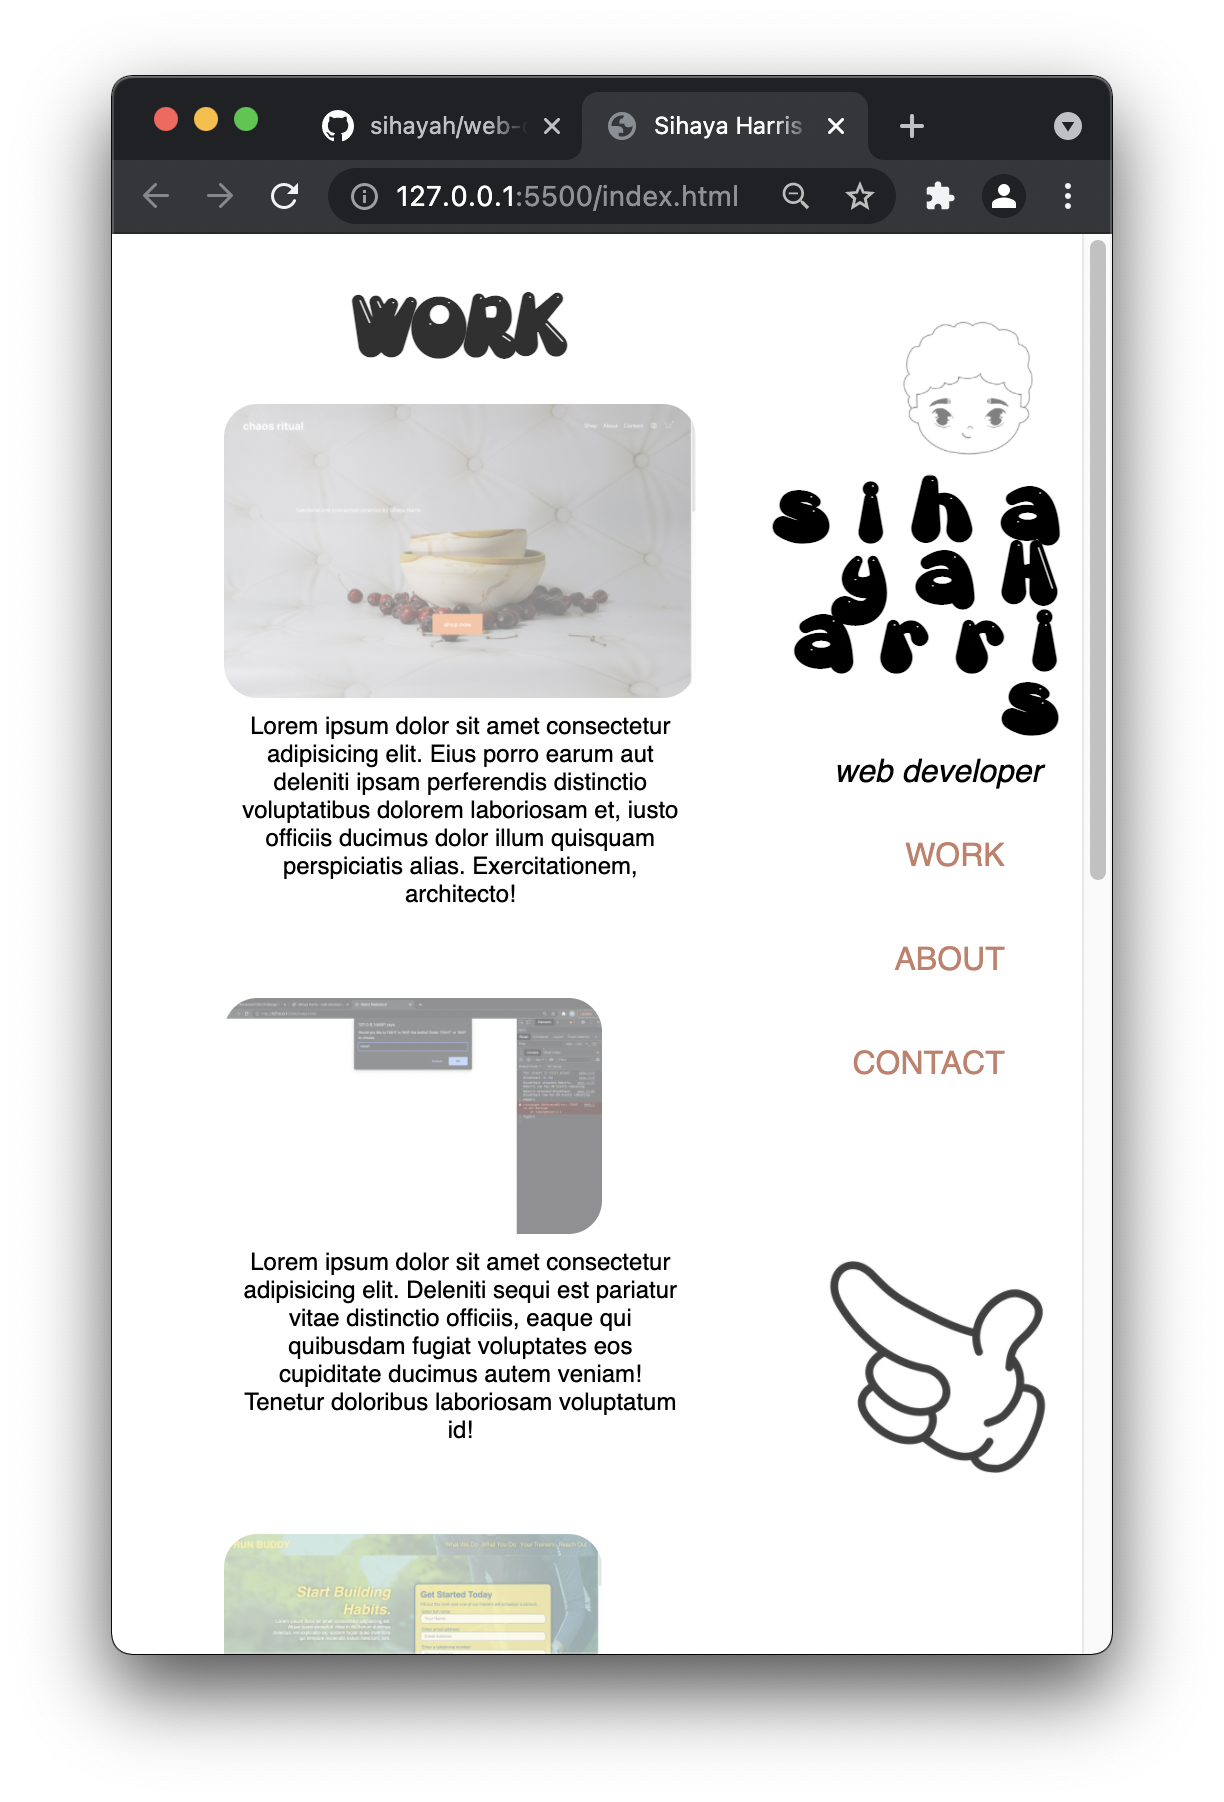
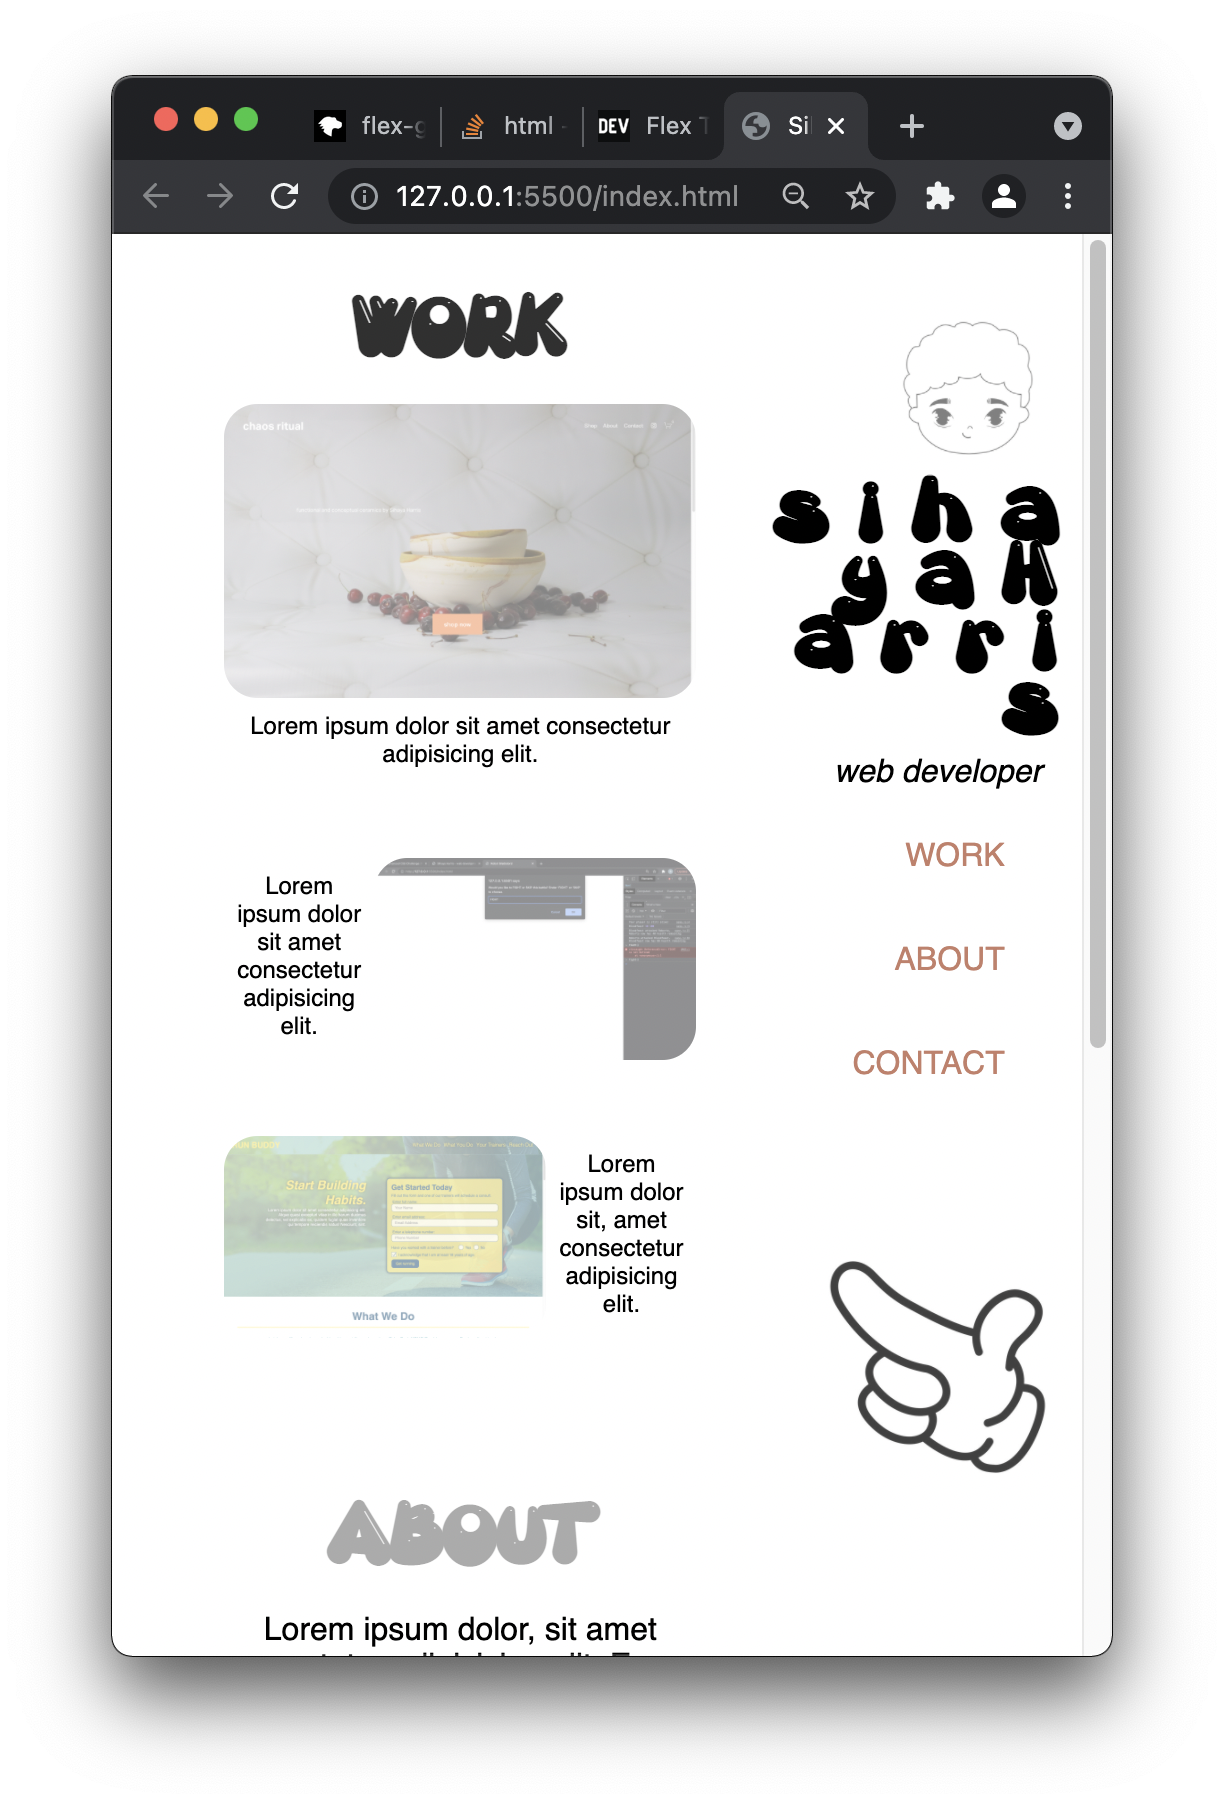
tweaking bugs

diff --git a/index.html b/index.html
@@ -42,49 +42,50 @@
             <!-- "Work Section" -->
             <section class="worksection">   
                 <h2 id= "work">WORK</h2>
+                <div class="worksectioncontainer">
 
 
-                    <article>
-                
-                        <div class="common">
-                            <a href="https://www.chaosritual.com/">
-                            <img src="assets/images/chaos-ritual-landing.png" class="work" id= "hero" alt="chaos ritual landing page"> 
-                            </a>
-                            <div class="caption">
-                                <span>CHAOS RITUAL</span>
-                            </div>
-                        </div>
-                        <p>Lorem ipsum dolor sit amet consectetur adipisicing elit. Eius porro earum aut deleniti ipsam perferendis distinctio voluptatibus dolorem laboriosam et, iusto officiis ducimus dolor illum quisquam perspiciatis alias. Exercitationem, architecto!</p>
-                    </article>
-
-                    <article>
+                        <article class="item1">
                     
-                        <div class="common">
-                            <a href="https://sihayah.github.io/robot-gladiators/">
-                                <img src="assets/images/robot-gladiators-landing.png" class="work" alt="robot gladiators landing page">
-                            </a>
+                            <div class="common">
+                                <a href="https://www.chaosritual.com/">
+                                <img src="assets/images/chaos-ritual-landing.png" class="work" id= "hero" alt="chaos ritual landing page"> 
+                                </a>
+                                <div class="caption">
+                                    <span>CHAOS RITUAL</span>
+                                </div>
+                            </div>
+                            <p>Lorem ipsum dolor sit amet consectetur adipisicing elit.</p>
+                        </article>
+
+                        <article class="item2">
                         
-                            <div class="caption">
-                                <span>ROBOT GLADIATORS</span>
+                            <div class="common">
+                                <a href="https://sihayah.github.io/robot-gladiators/">
+                                    <img src="assets/images/robot-gladiators-landing.png" class="work" alt="robot gladiators landing page">
+                                </a>
+                            
+                                <div class="caption">
+                                    <span>ROBOT GLADIATORS</span>
+                                </div>
                             </div>
-                        </div>
-                        <p>Lorem ipsum dolor sit amet consectetur adipisicing elit. Deleniti sequi est pariatur vitae distinctio officiis, eaque qui quibusdam fugiat voluptates eos cupiditate ducimus autem veniam! Tenetur doloribus laboriosam voluptatum id!</p>
-                    </article>
+                            <p>Lorem ipsum dolor sit amet consectetur adipisicing elit.</p>
+                        </article>
 
-                    <article>
-                    
-                        <div class="common">
-                            <a href="https://sihayah.github.io/Run-Buddy/">
-                                <img src="assets/images/run-buddy-landing.png" class="work" alt="run buddy landing page">
-                            </a>
-                       
-                            <div class="caption">
-                                <span>RUN BUDDY</span>
-                            </div>
-                        </div> 
-                        <p>Lorem ipsum dolor sit, amet consectetur adipisicing elit. Nobis possimus saepe corrupti explicabo nemo consequuntur voluptates id, minus similique velit, voluptate culpa nulla reprehenderit facere inventore expedita debitis vitae omnis.</p>
-                    </article>
-
+                        <article class="item3">
+                        
+                            <div class="common">
+                                <a href="https://sihayah.github.io/Run-Buddy/">
+                                    <img src="assets/images/run-buddy-landing.png" class="work" alt="run buddy landing page">
+                                </a>
+                        
+                                <div class="caption">
+                                    <span>RUN BUDDY</span>
+                                </div>
+                            </div> 
+                            <p>Lorem ipsum dolor sit, amet consectetur adipisicing elit.</p>
+                        </article>
+                </div>
             </section>
 
                 <!-- About section -->

diff --git a/assets/style.css b/assets/style.css
@@ -93,8 +93,7 @@ h2{
     padding-top: 50px;
     font-family: gretoonhighlight;
 }
- }
-}
+ 
 
 /* work section styles */
 
@@ -112,16 +111,25 @@ h2{
 }
 .work {
     display: block;
-    width: 80%;
+    width: 100%;
     height: auto;
     opacity: 50%;
     border-radius: 25px;
 }
-#hero {
-    width: 100%;
-    height: auto;
+.worksectioncontainer {
+    display: flex;
+    flex-direction: column;
+    flex-basis: 100%;
+    flex-wrap: wrap;
+    align-items: center;
+    flex: auto;
 }
-
+.item2, .item3 {
+    display:flex;
+}
+.item2 {
+    flex-direction: row-reverse;
+}
 .common {
     position: relative;
 }
@@ -264,6 +272,9 @@ article .common:hover span{
     }
     article p {
         font-size: 18px;
+    }
+    article {
+        text-align: center;
     }
 }
 /* REACH OUT STYLES END */
